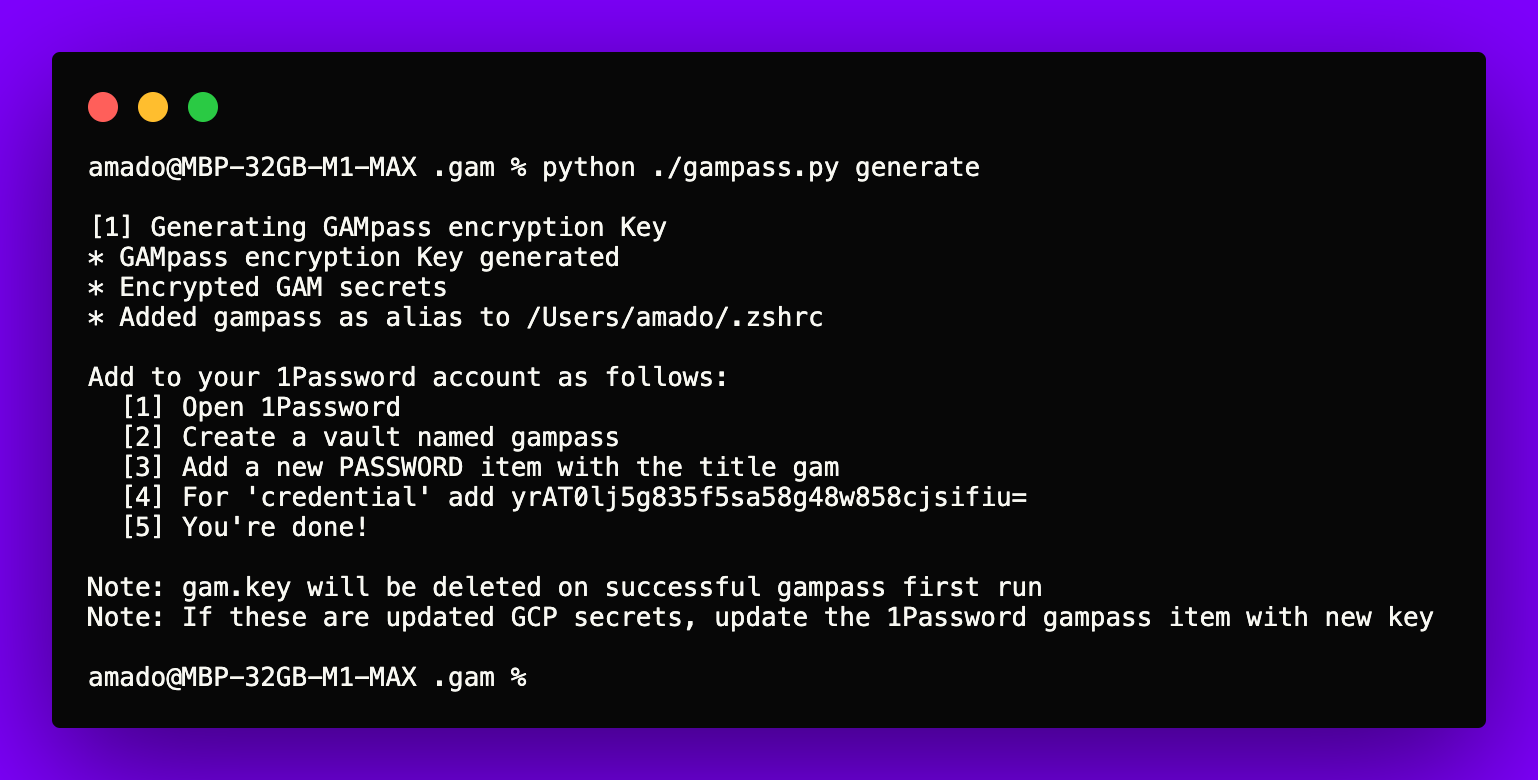
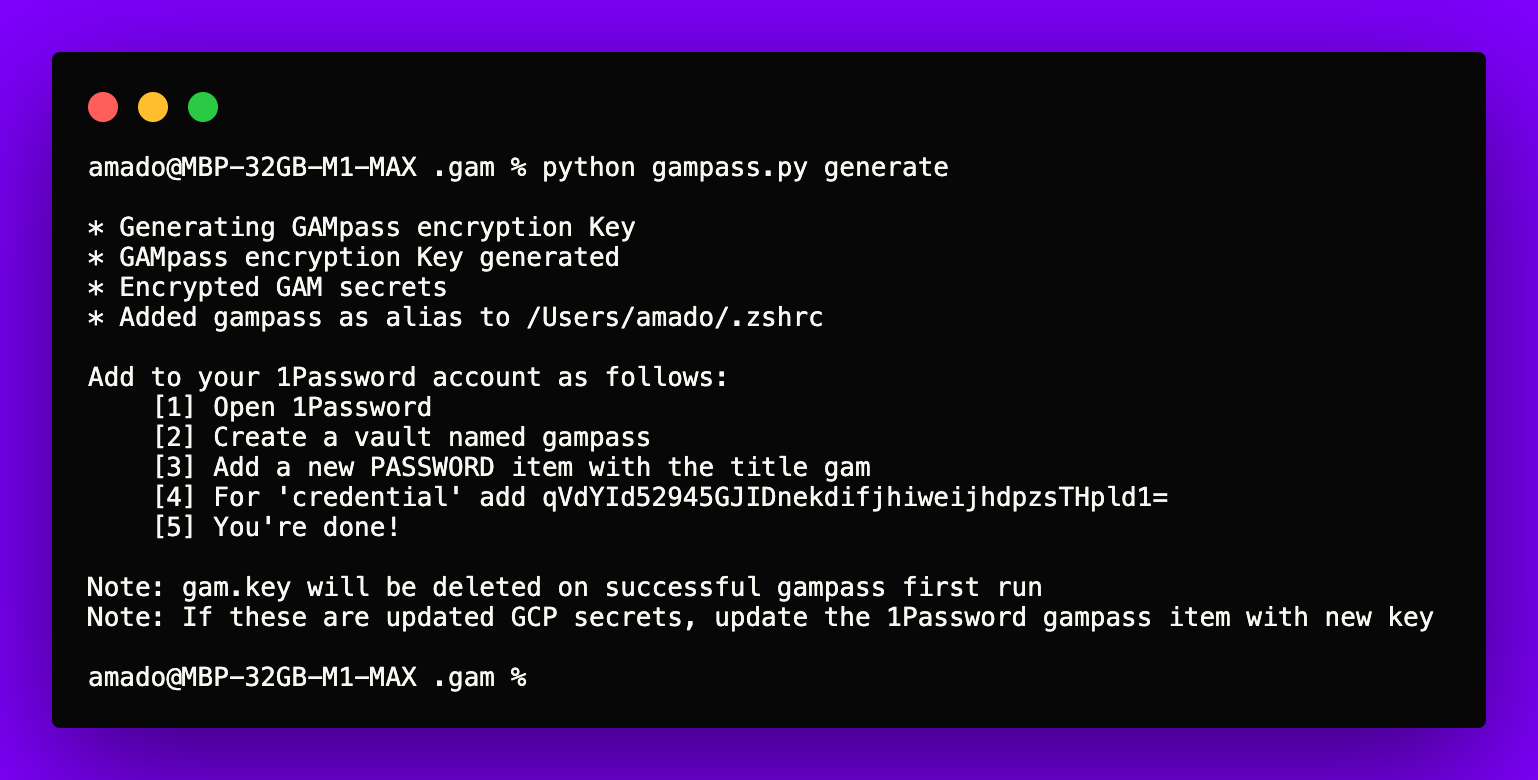
path fix

Changed region(s): [[0.0624, 0.4923, 0.749, 0.7077], [0.4057, 0.1846, 0.6242, 0.2462], [0.0624, 0.2769, 0.4369, 0.3077]]

diff --git a/gampass.py b/gampass.py
@@ -33,10 +33,9 @@ def generate_key() -> str:
     """
     gam_path = os.path.dirname(os.path.realpath(__file__))
     gam_key = Path(f"{gam_path}/gam.key")
-    print(gam_key)
     if not gam_key.is_file():
         add_alias()
-        print("\n[1] Generating GAMpass encryption Key")
+        print("\n* Generating GAMpass encryption Key")
         key = Fernet.generate_key()
         with open(f"{gam_path}/gam.key", "wb") as file:
             file.write(key)
@@ -66,7 +65,7 @@ def encrypt_file() -> None:
     It encrypts the secret files and renames it to `file.encrypted`
     :return: None
     """
-    gam_path = os.path.dirname(sys.argv[0])
+    gam_path = os.path.dirname(os.path.realpath(__file__))
     for files in secrets:
         path = Path(f"{gam_path}/{files}")
         if path.is_file():
@@ -90,7 +89,7 @@ def decrypt_file() -> None:
     :return: None
     """
     print("\nDecrypting GAM secrets via unopass:")
-    gam_path = os.path.dirname(sys.argv[0])
+    gam_path = os.path.dirname(os.path.realpath(__file__))
     for files in secrets:
         path = Path(f"{gam_path}/{files}.encrypted")
         if path.is_file():

diff --git a/README.md b/README.md
@@ -50,7 +50,7 @@ macOS Touch ID will prompt for your biometrics.
 Usage: python gampass.py [option]
 
 Options:
-	generate	Generate a key & encrypt secrets
+	generate	Generate a key and encrypt secrets
 	encrypt		Encrypt GAM files
 	decrypt		Decrypt GAM files
 
